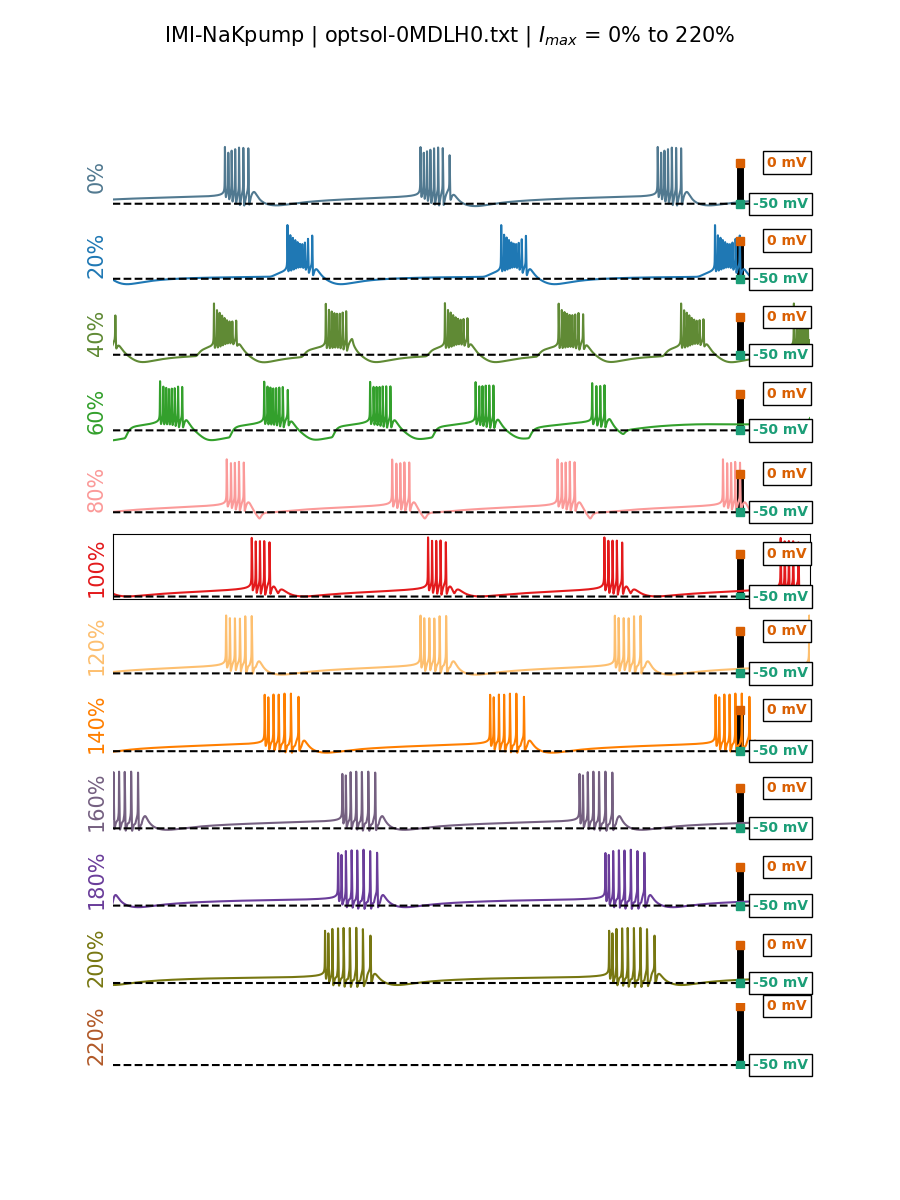
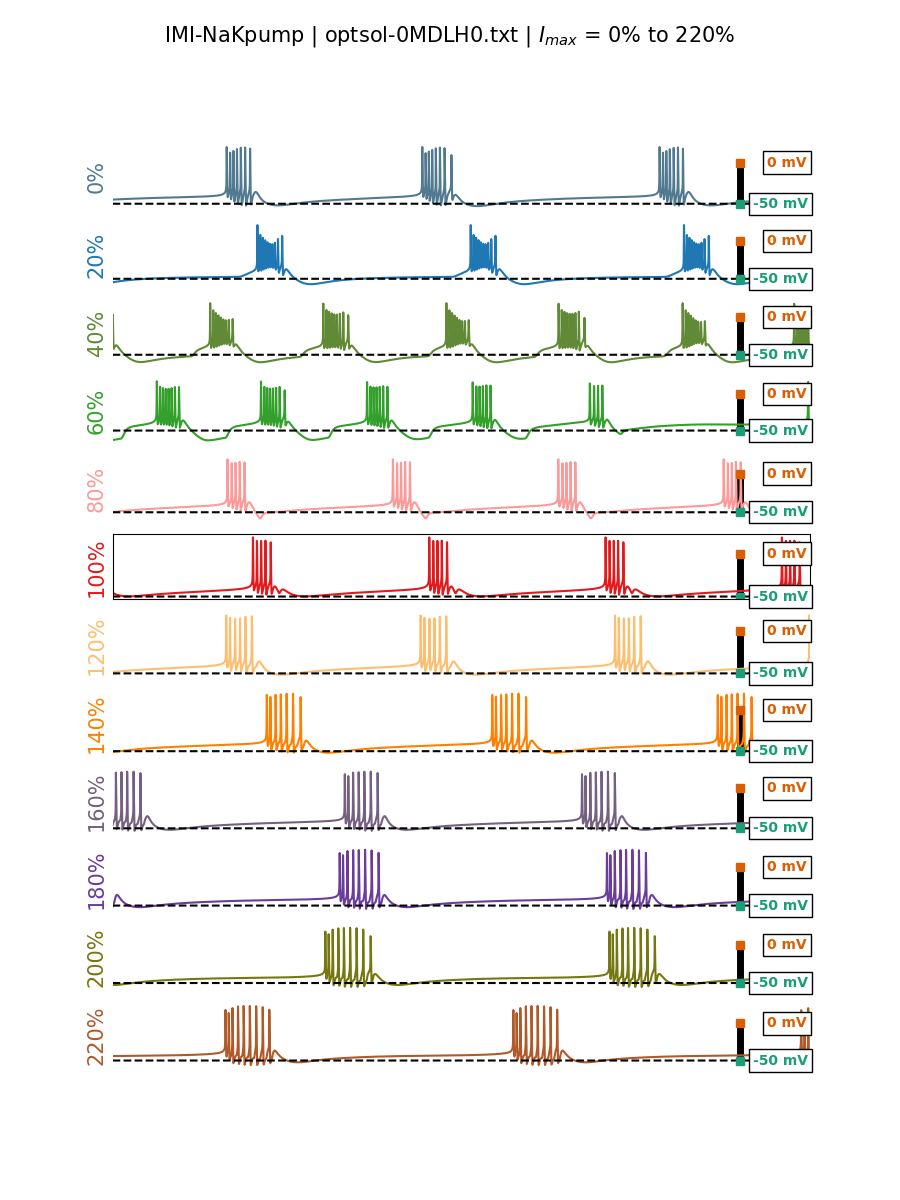
Increase timestep for 0MDLH0

diff --git a/plotpumps.py b/plotpumps.py
@@ -22,7 +22,7 @@ originalp = p.copy()
 print(f'{originalp[40] = }')
 
 # Run the model
-command = 'java -cp celltemp.jar findcells.integrateTempCompCell_imi_realclean_NaKpump_rk4 cis_realclean_NaKpump.txt '+pfname+' 20 25 0.1 > sol.txt'
+command = 'java -cp celltemp.jar findcells.integrateTempCompCell_imi_realclean_NaKpump_rk4 cis_realclean_NaKpump.txt '+pfname+' 20 25 0.05 > sol.txt'
 subprocess.run(command, shell=True)
 sol = np.genfromtxt('sol.txt')
 time = np.linspace(0,20,len(sol))
@@ -56,7 +56,7 @@ for i in range(12):
 
 	# Run the model
 	np.savetxt(pfname, p)
-	command = 'java -cp celltemp.jar findcells.integrateTempCompCell_imi_realclean_NaKpump_rk4 cis_realclean_NaKpump.txt '+pfname+' 20 25 0.1 > sol.txt'
+	command = 'java -cp celltemp.jar findcells.integrateTempCompCell_imi_realclean_NaKpump_rk4 cis_realclean_NaKpump.txt '+pfname+' 20 25 0.05 > sol.txt'
 	subprocess.run(command, shell=True)
 	sol = np.genfromtxt('sol.txt')
 	time = np.linspace(0,20,len(sol))
